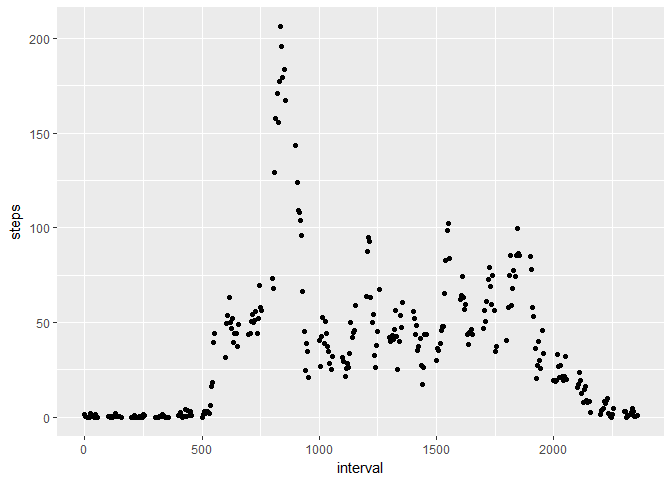
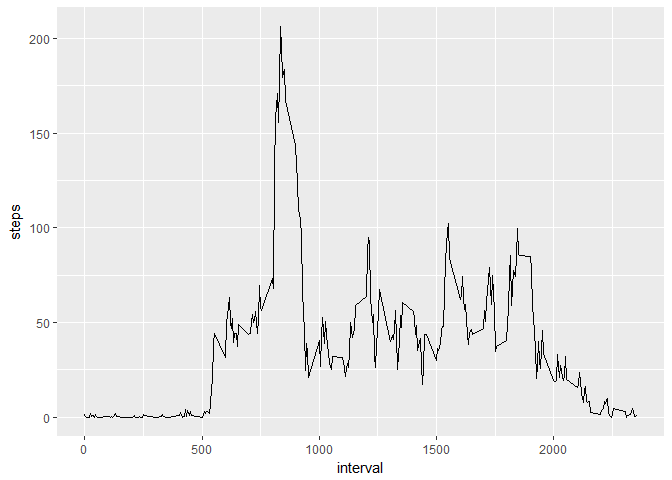
fixed first time series plot of sums

diff --git a/PA1_template.html b/PA1_template.html
@@ -150,8 +150,8 @@ ggplot(sums, aes(date)) +
 <p>Time series of the average steps taken per interval</p>
 <pre class="r"><code>intervalavg &lt;- aggregate(steps ~ interval, data = stepdata, mean)
 ggplot(intervalavg, aes(interval, steps)) + 
-  geom_point()</code></pre>
[1 lines of base64/hex data omitted]
+  geom_line()</code></pre>
[1 lines of base64/hex data omitted]
 </div>
 <div id="imputing-missing-values" class="section level2">
 <h2>Imputing missing values</h2>

diff --git a/PA1_template.md b/PA1_template.md
@@ -64,7 +64,7 @@ Time series of the average steps taken per interval
 ```r
 intervalavg <- aggregate(steps ~ interval, data = stepdata, mean)
 ggplot(intervalavg, aes(interval, steps)) + 
-  geom_point()
+  geom_line()
 ```
 
 ![](PA1_template_files/figure-html/intervalavg-1.png)<!-- -->
